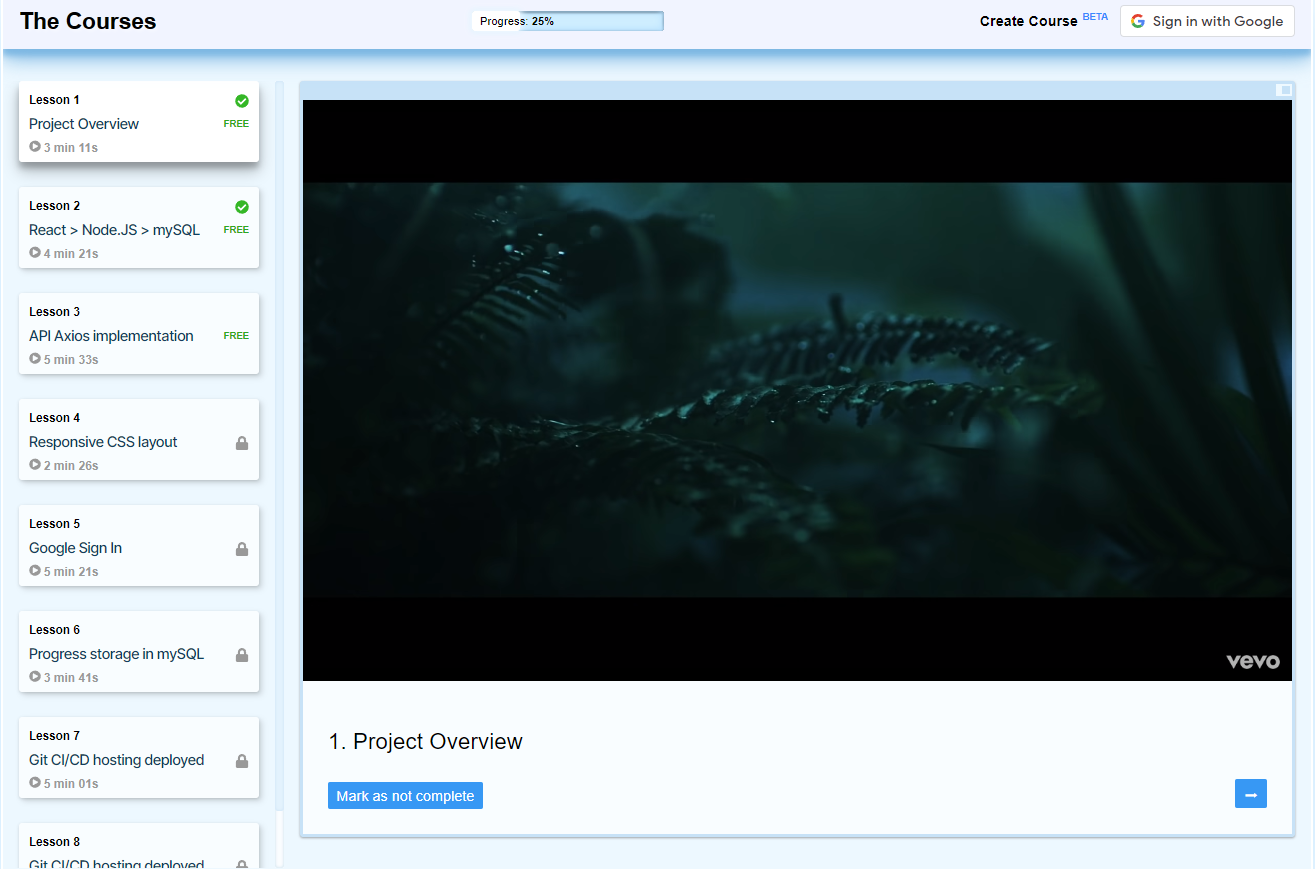
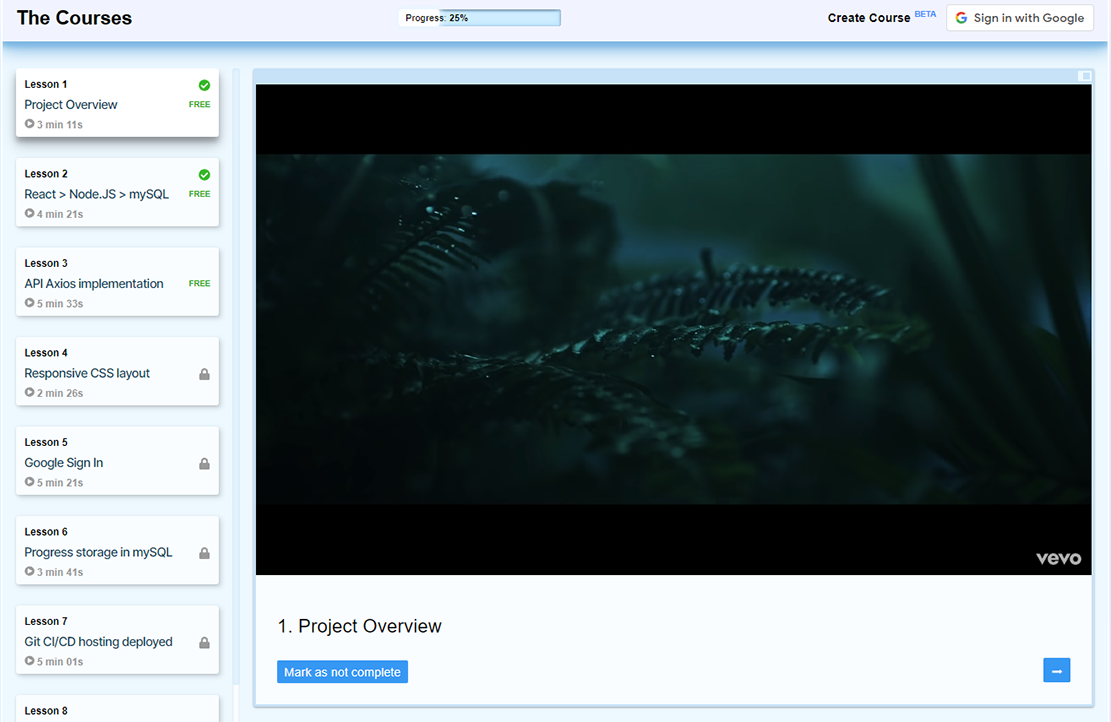
GSI for restricted ares

diff --git a/src/Lessons.jsx b/src/Lessons.jsx
@@ -3,13 +3,23 @@ import VideoPlayer from './videoPlayer'
 import { FaCheck, FaLock } from 'react-icons/fa'
 import { Link } from 'react-router-dom'
 import jwt_decode from 'jwt-decode'
- 
+import { useEffect } from 'react';
 const  Lessons  = ({ lessons, session, clickLesson, markComplete, markUnComplete, increment, decrement, toggleSideBar, handleSignIn}) => {
- 
-    function handleCredentialResponse(response) {
-        let identity = jwt_decode(response.credential)
-        handleSignIn(identity)
-      }
+    useEffect(() => {
+        const google = window.google
+        google.accounts.id.initialize({
+          client_id: "1023936046196-c55n0ke1qm3goi70ih1khh0hoaqqo1gu.apps.googleusercontent.com",
+          callback: handleCredentialResponse
+        });
+        
+        google.accounts.id.renderButton(
+          document.getElementById("ggDiv"),
+          { theme: "outline", size: "medium" }  
+        )}, [session.activeID])
+        function handleCredentialResponse(response) {
+          let identity = jwt_decode(response.credential)
+          handleSignIn(identity)
+        }
  
     return <div className="ContentContainer">
         <div className="Cards" style={ session.sideBar ? {} : { display: 'none'}}>
@@ -26,8 +36,14 @@ const  Lessons  = ({ lessons, session, clickLesson, markComplete, markUnComplete
         {lessons[session.activeID-1].isLocked && !session.isLogged ?
             <div className="Lock">
                 <FaLock className="LockBigIcon" />
-                <div id="g-signin3" data-prompt_parent_id="g_id_onload" data-onsuccess="onSignIn" data-theme="dark"></div>
-                <Link to="login"><div><h3>Sign in to view the lesson</h3></div></Link>
+                <Link to="login"><div><h3 style={{marginBottom: '0.25rem'}}>Sign in to view the lesson</h3></div></Link>
+                <div id="ggDiv"   
+                  data-client_id="1023936046196-c55n0ke1qm3goi70ih1khh0hoaqqo1gu.apps.googleusercontent.com"
+                  data-auto_select="true"
+                  data-login_uri="https://thecourses.online/"  
+                  >
+                </div>
+                
             </div>
             :
             <VideoPlayer lessons={lessons} session={session} markComplete={markComplete} />
@@ -53,7 +69,7 @@ const  Lessons  = ({ lessons, session, clickLesson, markComplete, markUnComplete
             <div>
             <button className="ButtonBlue Complete"
             style={session.completedLessons.includes(session.activeID) ? displayNone : {}}
-            onClick={markComplete}>
+            onClick={markComplete}> 
             <FaCheck className="CompleteIcon" /> {'Mark Complete'} </button>  
             <button className="ButtonBlue Complete"
             style={ session.completedLessons.includes(session.activeID) ? {} : displayNone}

diff --git a/src/App.css b/src/App.css
@@ -197,10 +197,16 @@ margin: 1rem 0;
   color: rgb(168, 201, 231);
 }
 .VHFlex {
-  height: 80vh;
+  height: 78vh;
   display: flex;
+  flex-direction: column;
   align-items: center;
   justify-content: center;
+}
+.VHFlex h2 {
+  font-size: 1.1rem;
+  font-weight: 600;
+  margin-bottom: 0.2rem;
 }
 .CreatorContent {
   display: flex;
@@ -467,7 +473,6 @@ margin: 1rem 0;
   margin-top: 4px;
 }
 .LessonTitle {
- font-family: 'Inter Tight', sans-serif;
  color: #003d61;
  font-size:0.92rem;
  max-width: 329px;
@@ -475,11 +480,12 @@ margin: 1rem 0;
 .LessonDuration {
   padding: 0;
   margin: 0;
-  font-size: 0.75rem;
+  font-size: 0.72rem;
   font-weight: 600;
   color: #999;
   margin-top: .18rem;
 }
+ 
 .CompleteIcon {
   font-size: .8em;
 }
@@ -488,6 +494,9 @@ margin: 1rem 0;
 }
 .LessonContainer {
   padding: 1em;
+}
+#ggDiv, #gDiv, #gggDiv {
+  height: 32px;
 }
 .toggleSideBar {
   height: 0.5rem;
@@ -555,7 +564,7 @@ margin: 1rem 0;
 }
 .CheckIcon {
   color: #12b612;
-  font-size: 0.9rem; 
+  font-size: 0.88rem; 
 }
 .Free {
   font-size: .6rem;
@@ -716,21 +725,25 @@ margin: 1rem 0;
   }
 } 
 
+ 
+@media only screen and (max-width: 792px) { 
+.HeaderContainer .Progress {
+  display:none;
+ }
+ .Footer .Progress { 
+  display: block;
+  height:1.1rem;
+  font-size: .69rem;
+ }
+ .Footer .ProgressInner { 
+  display: block;
+  height:1.1rem;
+ }
+}
+
 @media only screen and (max-width: 637px) { 
   #signInDiv {
   margin-top: 1rem;
-   }
-   .HeaderContainer .Progress {
-    display:none;
-   }
-   .Footer .Progress { 
-    display: block;
-    height:1.1rem;
-    font-size: .69rem;
-   }
-   .Footer .ProgressInner { 
-    display: block;
-    height:1.1rem;
    }
    .LessonsPage {
     margin: 2rem 0;
@@ -746,7 +759,9 @@ margin: 1rem 0;
     margin: 0.2rem auto 0.8rem auto;
    }
   }
-
+.Landing {
+  padding-bottom: 3rem;
+}
   .Landing a {
     color: #0093ff;
     font-size: 1.2rem;
@@ -782,19 +797,22 @@ margin: 1rem 0;
     user-select: none;
   }
   .Hero {
-    width: 80%;
+  
     margin: 0 auto;
     text-align: center;
     margin-bottom: 4rem;
   }
   .Hero img {
-    width: 100%;
+   
   }
   .promoCards {
     align-items: center;
     display: flex;
     justify-content: center;
     margin: 2rem;
+  }
+  .promoCards .LessonDuration {
+    font-size: .7rem;
   }
   .Right {
     margin: 0 auto 0 3rem;

diff --git a/src/Header.js b/src/Header.js
@@ -1,26 +1,29 @@
 import { Link } from 'react-router-dom';
 import jwt_decode from 'jwt-decode'
 import Progress from './progress'
+import { useEffect } from 'react';
 const Header = ({ lessons, session, handleSignIn }) => {
- 
+ useEffect(() => {
+  const google = window.google
+  google.accounts.id.initialize({
+    client_id: "1023936046196-c55n0ke1qm3goi70ih1khh0hoaqqo1gu.apps.googleusercontent.com",
+    callback: handleCredentialResponse
+  });
+  google.accounts.id.renderButton(
+    document.getElementById("gDiv"),
+    { theme: "outline", size: "medium" }  
+  );
+  google.accounts.id.renderButton(
+    document.getElementById("ggDiv"),
+    { theme: "outline", size: "medium" }  
+  );
+  google.accounts.id.prompt();  
+ }, [])
   function handleCredentialResponse(response) {
     let identity = jwt_decode(response.credential)
     handleSignIn(identity)
   }
-  window.onload = () => {
-    const google = window.google
-    google.accounts.id.initialize({
-      client_id: "1023936046196-c55n0ke1qm3goi70ih1khh0hoaqqo1gu.apps.googleusercontent.com",
-      callback: handleCredentialResponse
-    });
-    google.accounts.id.renderButton(
-      document.getElementById("gDiv"),
-      { theme: "outline", size: "medium" }  
-    );
-    google.accounts.id.prompt();  
-  }
-
-
+ 
     return <div className="HeaderContainer" style={ session.sideBar ? {} : {  boxShadow: 'none'}}>
             <header className="App-header">
               <div className="Title">
@@ -34,7 +37,12 @@ const Header = ({ lessons, session, handleSignIn }) => {
               <div className="userInfo Create">
                 <Link to="/creator"><p>Create Course</p></Link>
               </div>
-                <div id="gDiv" style={session.isLogged ? {display: 'none'} : {}}></div>
+                <div id="gDiv"   
+                  data-client_id="1023936046196-c55n0ke1qm3goi70ih1khh0hoaqqo1gu.apps.googleusercontent.com"
+                  data-auto_select="true"
+                  data-login_uri="https://thecourses.online/"  
+                  style={session.isLogged ? {display: 'none'} : {}}>
+                </div>
                 <Link to="/cabinet">
                 { session.isLogged &&
                 <div className="userInfo">

diff --git a/src/pages/creator.jsx b/src/pages/creator.jsx
@@ -1,8 +1,24 @@
 import { FaPlus } from 'react-icons/fa'
-import { Link } from 'react-router-dom';
-const Creator = ( { session, creation, creationLessons, addCourse, handleCourseChange, handleSubmitCourse }) => {
+import { Link } from 'react-router-dom'
+import jwt_decode from 'jwt-decode'
+import { useEffect } from 'react'
+const Creator = ( { session, creation, creationLessons, addCourse, handleCourseChange, handleSubmitCourse, handleSignIn }) => {
 
-
+    useEffect(() => {
+        const google = window.google
+        google.accounts.id.initialize({
+          client_id: "1023936046196-c55n0ke1qm3goi70ih1khh0hoaqqo1gu.apps.googleusercontent.com",
+          callback: handleCredentialResponse
+        });
+        
+        google.accounts.id.renderButton(
+          document.getElementById("gggDiv"),
+          { theme: "outline", size: "medium" }  
+        )}, [session.activeID])
+        function handleCredentialResponse(response) {
+          let identity = jwt_decode(response.credential)
+          handleSignIn(identity)
+        }
     return  <div className="CreatorArea">
         {session.isLogged? 
         <div>
@@ -39,7 +55,15 @@ const Creator = ( { session, creation, creationLessons, addCourse, handleCourseC
              </div> 
         </div>
     :
-    <div className="VHFlex"><h1>Sign In</h1></div>
+    <div className="VHFlex">
+        <h2>Sign in to continute</h2>
+        <div id="gggDiv" 
+            data-client_id="1023936046196-c55n0ke1qm3goi70ih1khh0hoaqqo1gu.apps.googleusercontent.com"
+            data-auto_select="true"
+            data-login_uri="https://thecourses.online/"  
+            style={session.isLogged ? {display: 'none'} : {}} >
+        </div>
+    </div>
     }
     </div>
  

diff --git a/src/pages/landing.jsx b/src/pages/landing.jsx
@@ -7,12 +7,14 @@ const Landing = () => {
    
     <h1>The Courses</h1>
     <Link to="/"><h2>Built with User Experience in mind</h2></Link>
-    <div className="Hero"><img draggable="false" src="/cr.png" alt="Course preview" /></div>
+    <div className="Hero">
+        {/* <img draggable="false" src="/cr.png" alt="Course preview" /> */}
+    </div>
     <div className="promoCards">
         <div className="Left">
             <div className='Card'  style={{boxShadow: '0 9px 15px rgb(0 0 0 / 25%), 0 6px 6px rgb(0 0 0 / 22%',  userSelect:'none'}} >
             <div className="CardLessonLine">
-                        <p className="LessonNumber" >Lesson </p>
+                        <p className="LessonNumber" >Lesson 6</p>
                         <p><FaCheckCircle className="CheckIcon" /></p>
                     </div>
                     <div className="CardTitleLine">
@@ -23,7 +25,7 @@ const Landing = () => {
             </div>
             <div className='Card' style={{marignBotton: '0',  userSelect:'none'}}>
             <div className="CardLessonLine">
-                        <p className="LessonNumber" >Lesson 3</p>
+                        <p className="LessonNumber" >Lesson 7</p>
                         <p> </p>
                     </div>
                     <div className="CardTitleLine">
@@ -36,7 +38,6 @@ const Landing = () => {
         <div className="Right">
             <h3>Free previews</h3>
                 <p>Confirm audience expactations, increase enrollments and build subscriber base showcasing sample content</p>
-      
         </div>
     </div>    
     <div className="promoCards">

diff --git a/src/App.jsx b/src/App.jsx
@@ -222,7 +222,7 @@ const App = () => {
                 <Route path="start" element={<Start />} />
                 <Route path="login" element={<Login />} />
                 <Route path="creator" element={<Creator creation={creation} lessons={lessons} session={session} handleCourseChange={handleCourseChange} 
-                creationLessons={creationLessons} handleSubmitCourse={handleSubmitCourse}
+                creationLessons={creationLessons} handleSubmitCourse={handleSubmitCourse} handleSignIn={handleSignIn}
                 handleTitleChange={handleTitleChange} addCourse={addCourse} />} />
                 <Route path="course" element={<Course creation={creation} creationLessons={creationLessons} session={session} clickLesson={clickLesson} addLesson={addLesson} 
                 handleTitleChange={handleTitleChange} handleFreeChange={handleFreeChange} handleVideoChange={handleVideoChange} handleSubmitLesson={handleSubmitLesson} setDuration={setDuration} />}/>

diff --git a/src/LessonCard.jsx b/src/LessonCard.jsx
@@ -10,7 +10,7 @@ const LessonCard = ({ lesson, session, clickLesson }) => {
                 </div>
                 <div className="CardTitleLine">
                     <p className="LessonTitle"  >{lesson.title}</p>
-                    <p >{lesson.isLocked && !session.isLogged? <FaLock className="LockIcon" /> : <div className="Free">FREE</div>}</p>
+                    <p >{lesson.isLocked && !session.isLogged? <FaLock className="LockIcon" /> : ''}</p>
                 </div>
                 <p className="LessonDuration"  ><FaPlayCircle className="PlayIcon" /> {lesson.duration}</p>
             </div> 

diff --git a/public/index.html b/public/index.html
@@ -25,9 +25,6 @@
       Learn how to configure a non-root public URL by running `npm run build`.
     -->
     <script src="https://accounts.google.com/gsi/client" async defer></script>
-    <link rel="preconnect" href="https://fonts.googleapis.com">
-    <link rel="preconnect" href="https://fonts.gstatic.com" crossorigin>
-    <link href="https://fonts.googleapis.com/css2?family=Inter+Tight:wght@500&display=swap" rel="stylesheet">
     <title>Course React Project</title>
   </head>
   <body>
